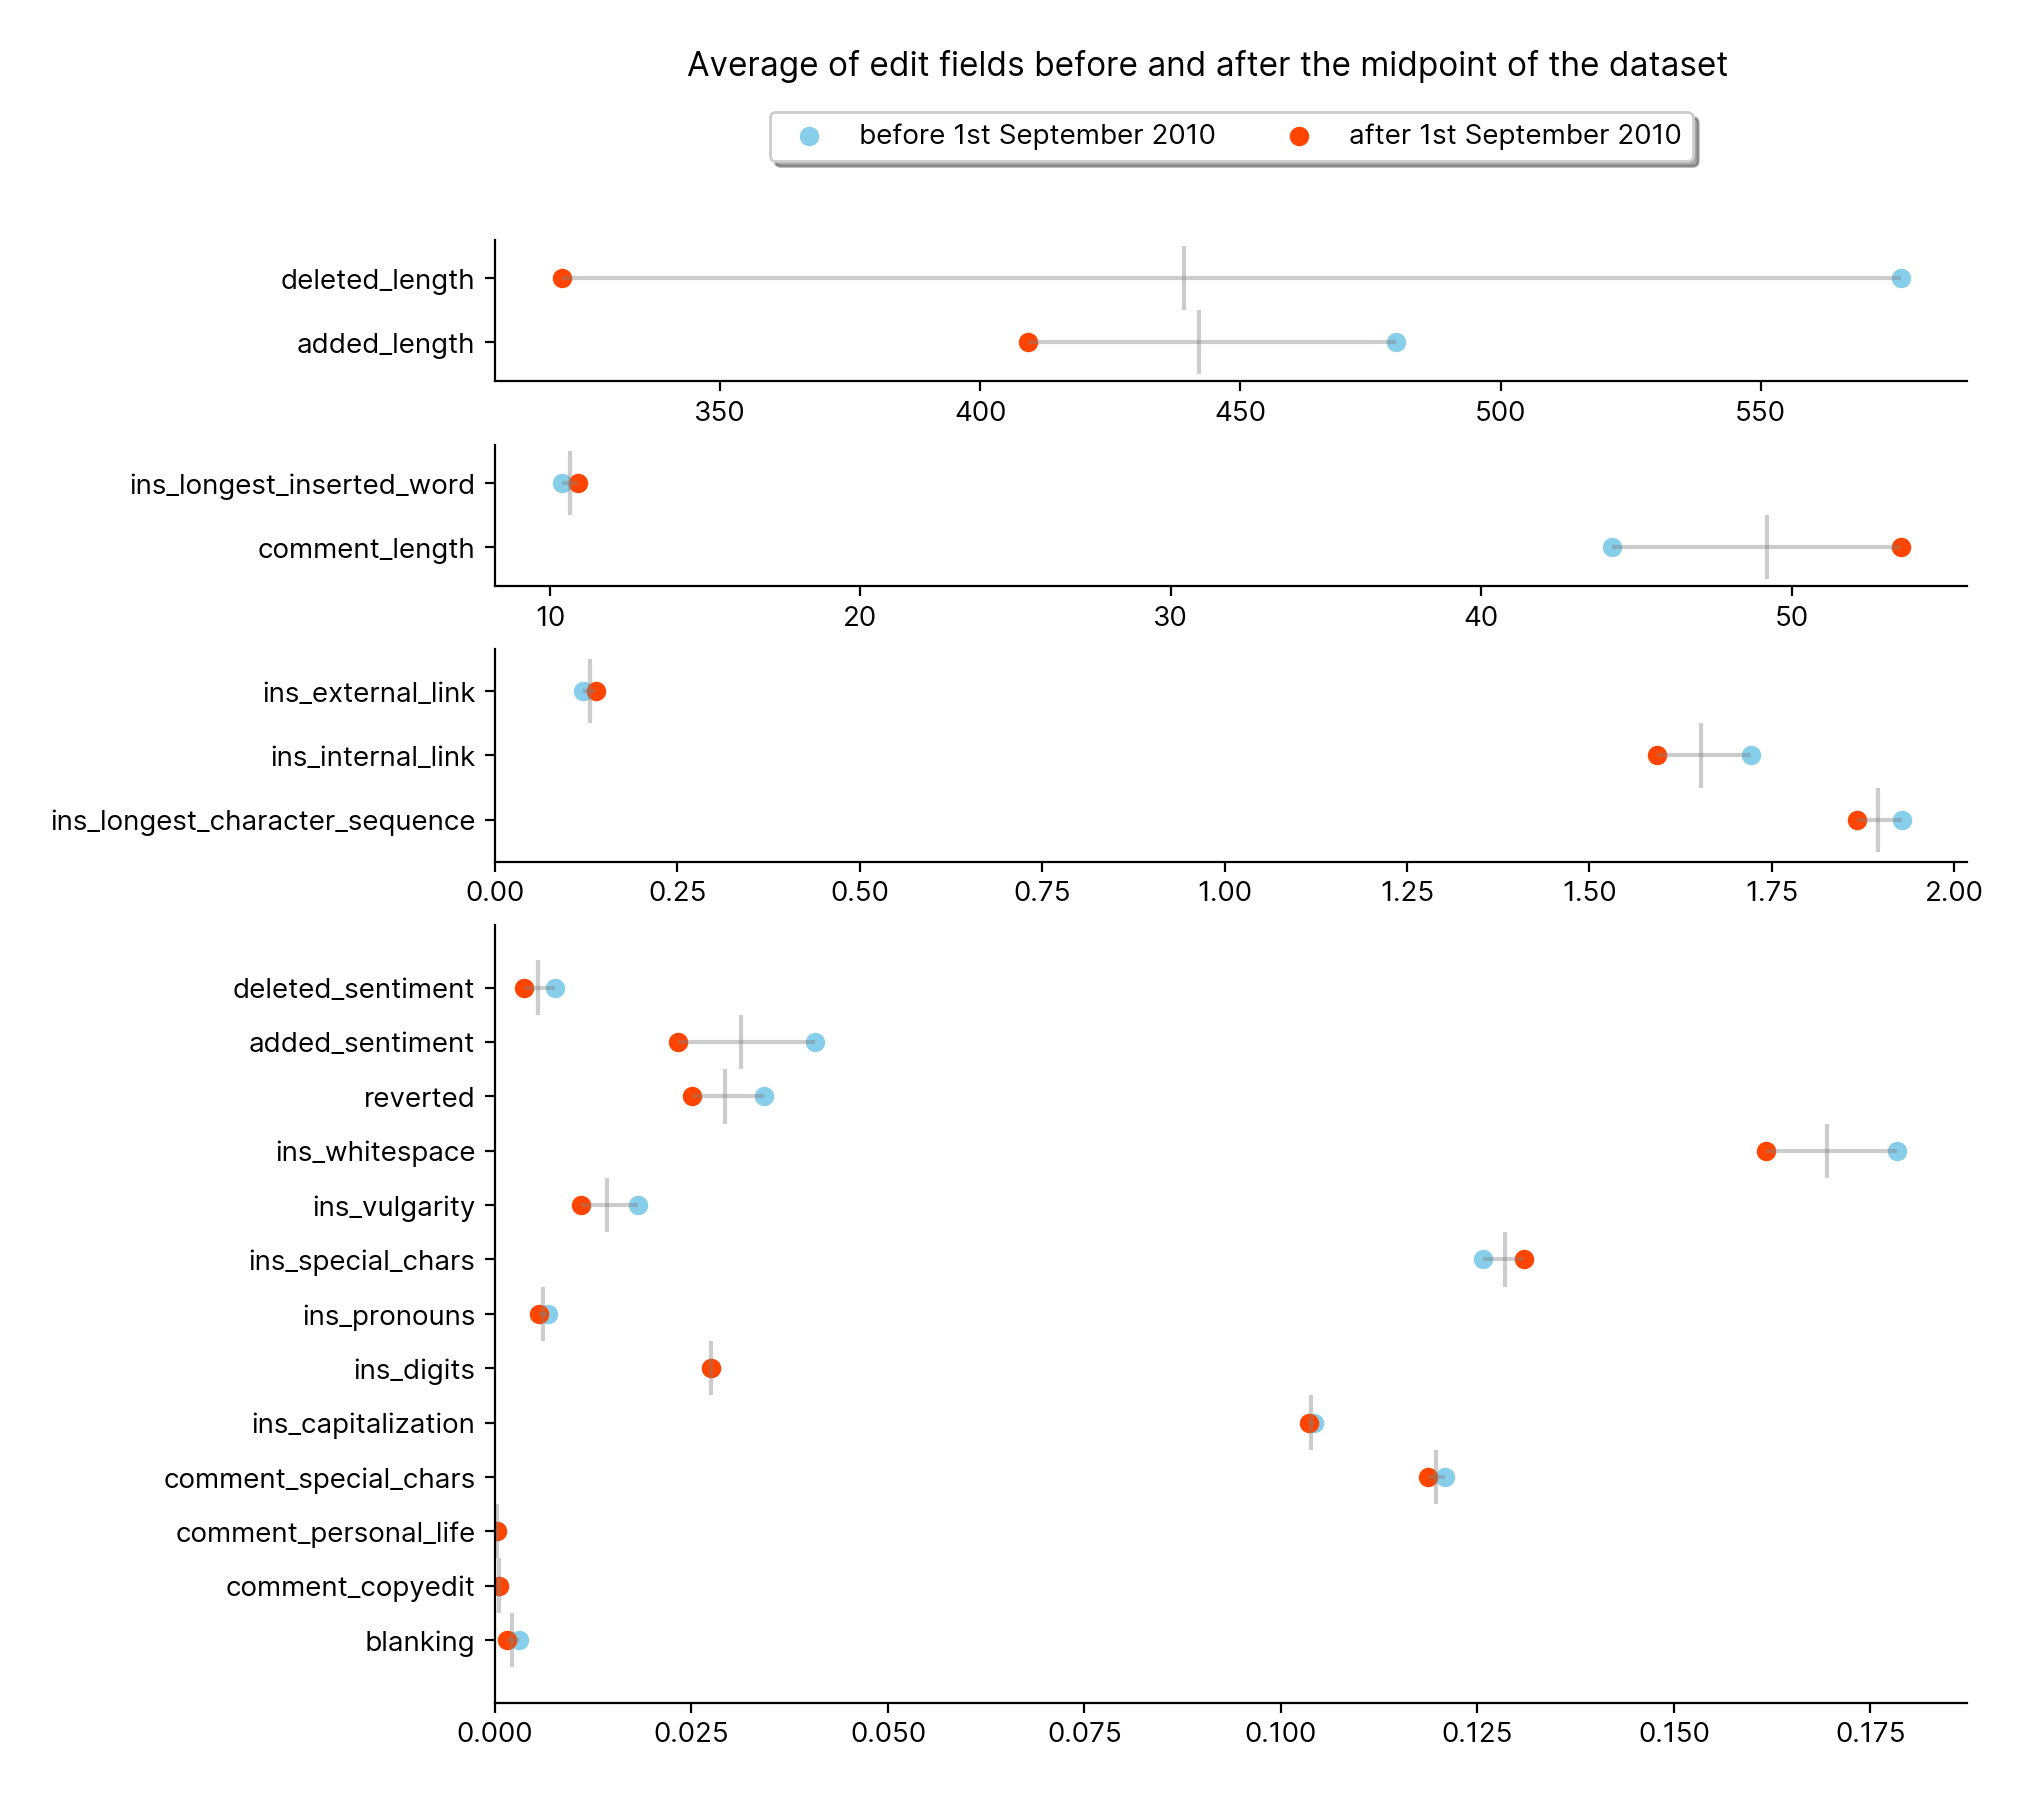
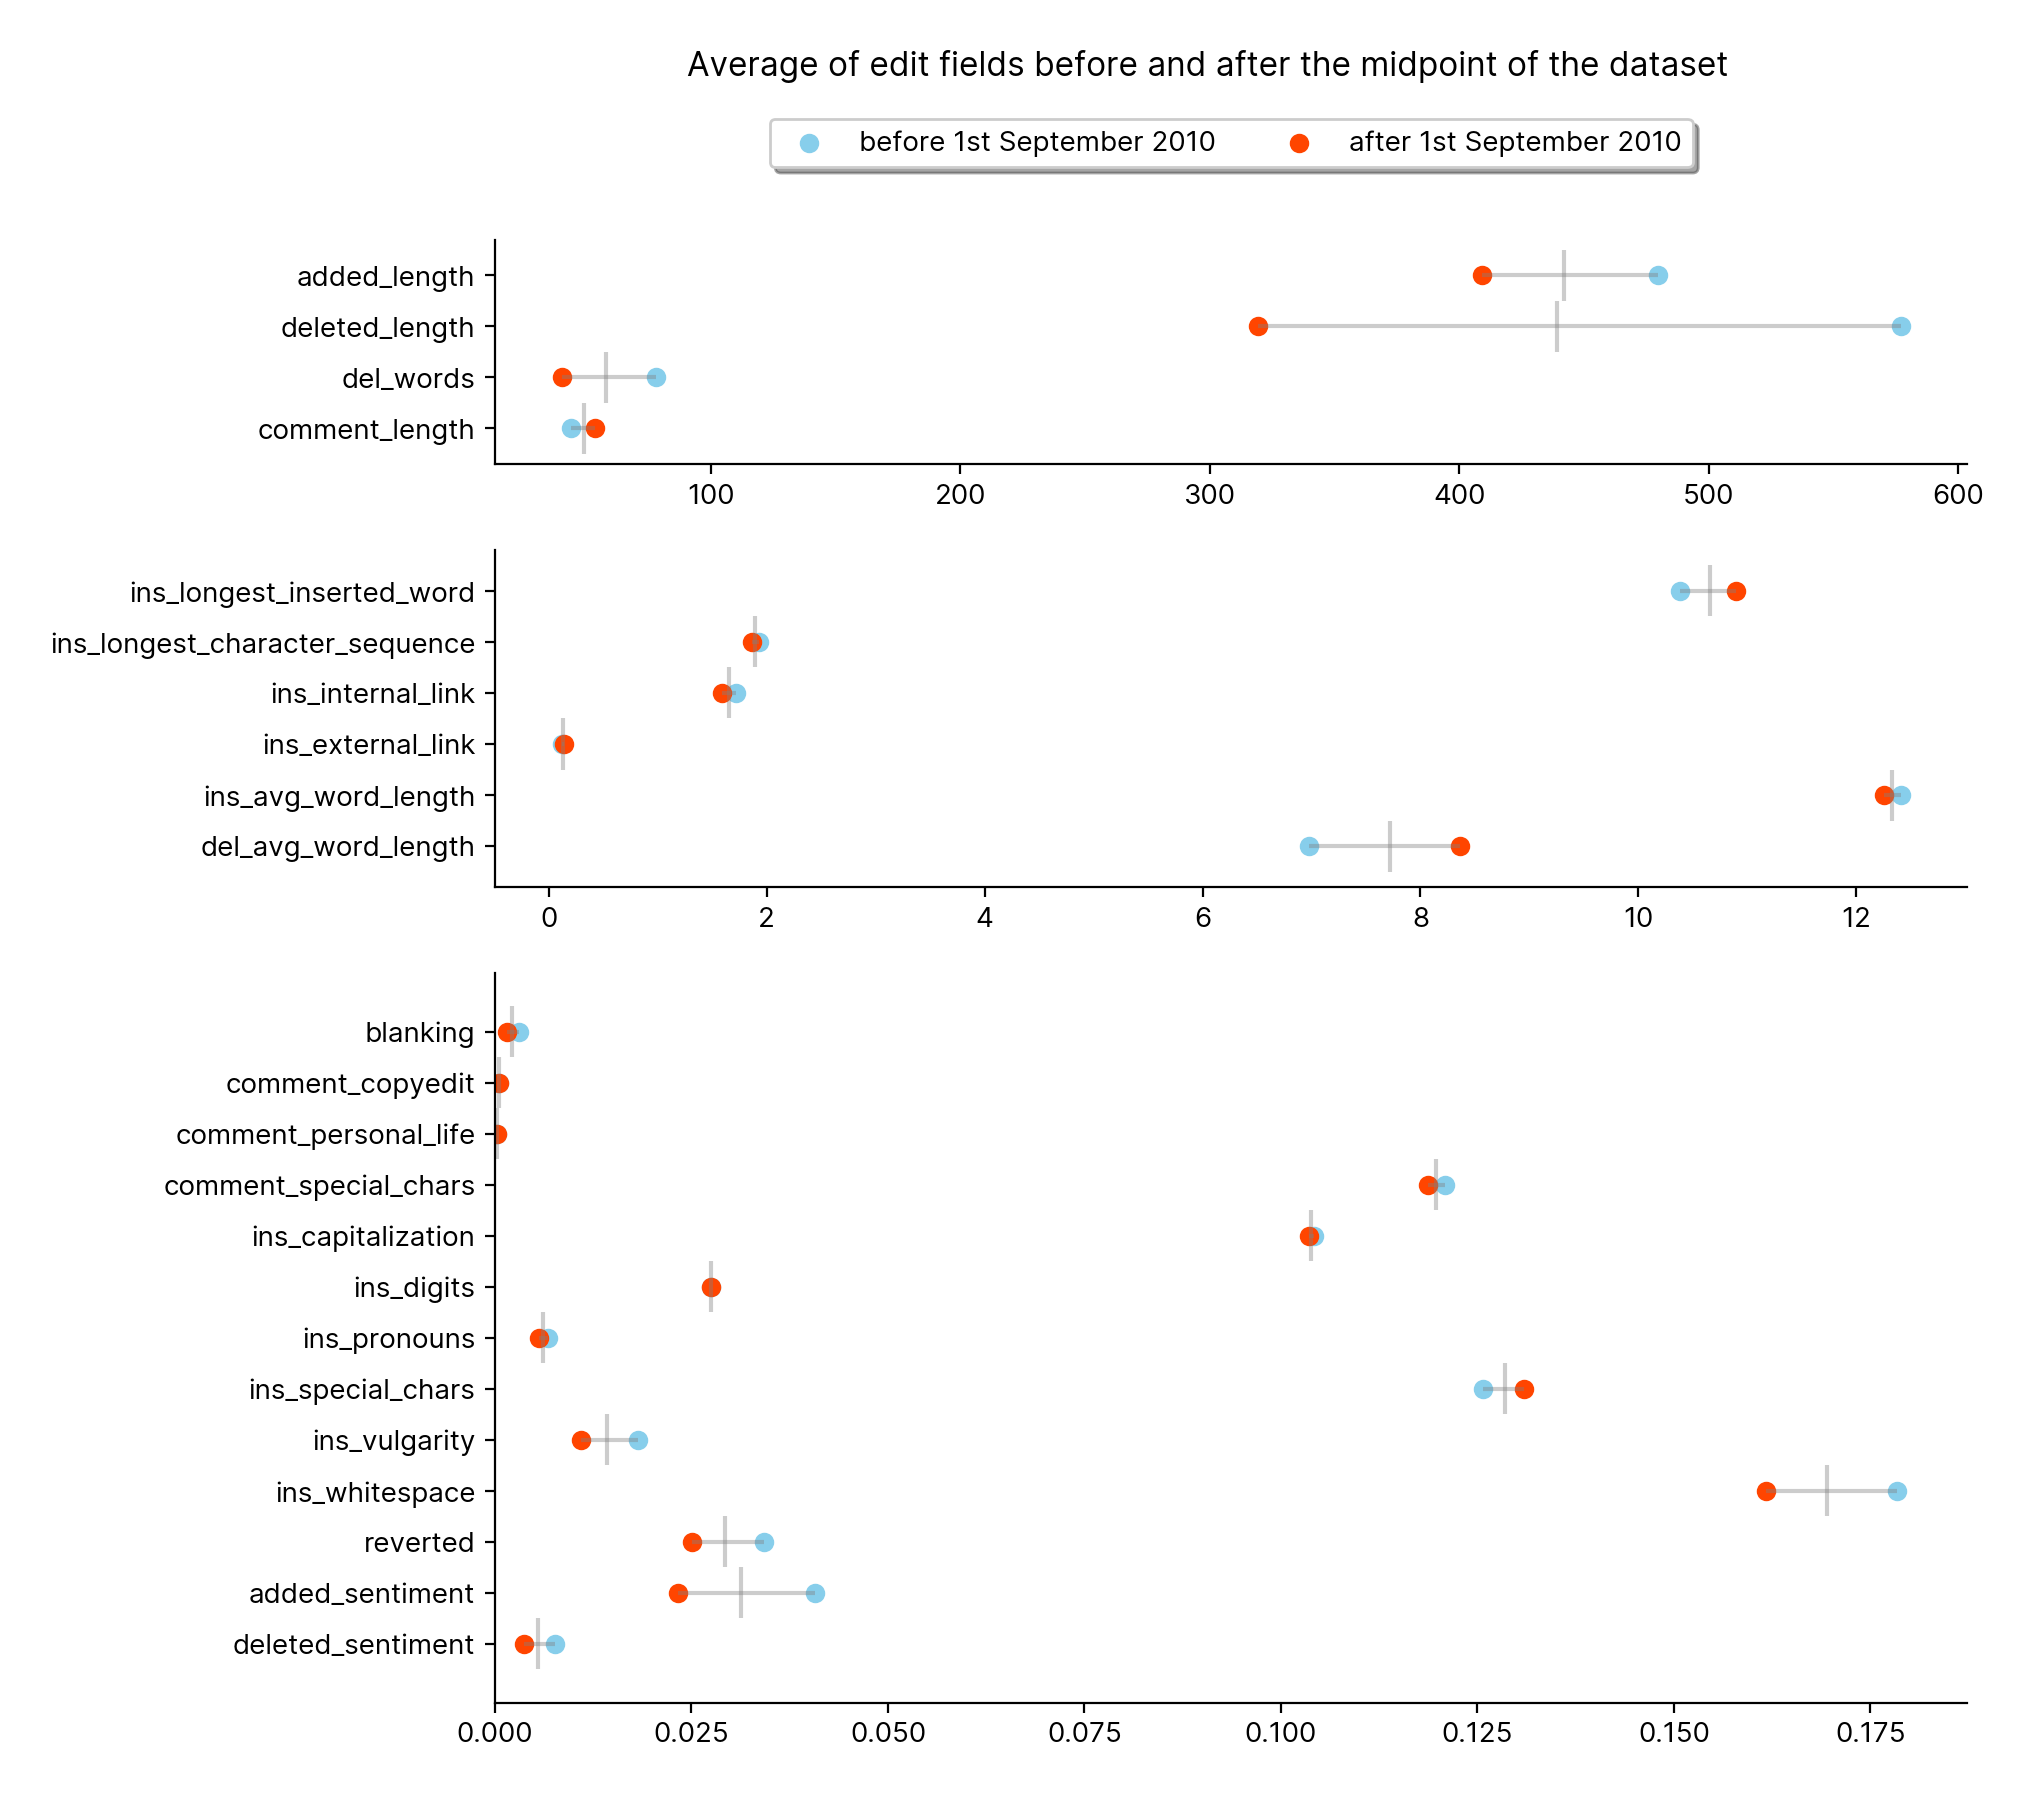
update 26 to have new columns

diff --git a/nsdb/plot.py b/nsdb/plot.py
@@ -1646,7 +1646,7 @@ def averageAllSpecial(cursor, i, plotDir, dataDir, dryrun):
 
         data.append(groupData)
 
-    fig, axs = plt.subplots(3, 1, gridspec_kw={"height_ratios": [4,6, 13]})
+    fig, axs = plt.subplots(3, 1, gridspec_kw={"height_ratios": [4, 6, 13]})
 
     fig.suptitle("Average of all integer edit fields")
 
@@ -1694,7 +1694,7 @@ def averageAllSpecial(cursor, i, plotDir, dataDir, dryrun):
             color="grey",
             alpha=0.4,
         )
-        print(start[j], end[j])
+
         for k, group in enumerate(data):
             if k == 0:
                 continue
@@ -2178,254 +2178,98 @@ def talkpageEditsOverTime(cursor, i, plotDir, dataDir, dryrun):
     plt.close()
 
 
-def averageAllEpoch(cursor, i, plotDir, dataDir, dryrun):
+def averageAllEpoch(cursor, i, plotDir, dataDir, dryrun, columns):
     figname = plotDir + str(i) + "-" + "averageAllEpoch"
     plt.figure()
 
-    columns = [
-        "added_length",
-        "deleted_length",
-        "del_words",
-        "comment_length",
-        "ins_longest_inserted_word",
-        "ins_longest_character_sequence",
-        "ins_internal_link",
-        "ins_external_link",
-        "blanking",
-        "comment_copyedit",
-        "comment_personal_life",
-        "comment_special_chars",
-        "ins_capitalization",
-        "ins_digits",
-        "ins_pronouns",
-        "ins_special_chars",
-        "ins_vulgarity",
-        "ins_whitespace",
-        "reverted",
-        "added_sentiment",
-        "deleted_sentiment",
-    ]
+    groups = ["all", "before", "after"]
+    conditions = ["1", "cast(edit_date as date) < '2010-09-01'", "cast(edit_date as date) >= '2010-09-01'"]
+    
+    data = []
+    
+    for j, condition in enumerate(conditions):
+        query = """select AVG(added_length),AVG(deleted_length),AVG(del_words),AVG(comment_length),
+        AVG(ins_longest_inserted_word),AVG(ins_longest_character_sequence),AVG(ins_internal_link),
+        AVG(ins_external_link),AVG(ins_avg_word_length), AVG(del_avg_word_length),AVG(blanking),AVG(comment_copyedit),AVG(comment_personal_life),
+        AVG(comment_special_chars),AVG(ins_capitalization),AVG(ins_digits),AVG(ins_pronouns),
+        AVG(ins_special_chars),AVG(ins_vulgarity),AVG(ins_whitespace),AVG(reverted),AVG(added_sentiment),
+        AVG(deleted_sentiment)  FROM edit
+        where %s;"""
+        if not dryrun:
+            cursor.execute(query % condition,)
+            condData = cursor.fetchall()
+            condData = list(*condData)
 
-    allEdits = """select AVG(added_length),AVG(deleted_length),AVG(del_words),AVG(comment_length),
-    AVG(ins_longest_inserted_word),AVG(ins_longest_character_sequence),AVG(ins_internal_link),
-    AVG(ins_external_link),AVG(blanking),AVG(comment_copyedit),AVG(comment_personal_life),
-    AVG(comment_special_chars),AVG(ins_capitalization),AVG(ins_digits),AVG(ins_pronouns),
-    AVG(ins_special_chars),AVG(ins_vulgarity),AVG(ins_whitespace),AVG(reverted),AVG(added_sentiment),
-    AVG(deleted_sentiment)  FROM edit;"""
-    if not dryrun:
-        cursor.execute(allEdits,)
-        allData = cursor.fetchall()
-        allData = list(*allData)
-        with open(dataDir + str(i) + "-all.txt", "w") as file:
-            file.write(str(allData))
-    else:
-        allData = [
-            442.0422,
-            439.0867,
-            58.0321,
-            49.1949,
-            10.6587,
-            1.8952,
-            1.6529,
-            0.1304,
-            0.0022,
-            0.0005,
-            0.0002,
-            0.11972271,
-            0.10387291,
-            0.02747601,
-            0.00610185,
-            0.12846018,
-            0.0143,
-            0.16946286,
-            0.0293,
-            0.03135975155021137,
-            0.0055170703440406196,
-        ]
+            writeCSV(dataDir + str(i) + "-" + groups[j] + ".csv", [condData])
+        else:
+            with open(dataDir + str(i) + "-" + groups[j] + ".csv", "r") as file:
+                reader = csv.reader(file, delimiter=",")
+                condData = [list(map(float, line)) for line in reader][0]
 
-    before = """select AVG(added_length),AVG(deleted_length),AVG(del_words),AVG(comment_length),
-    AVG(ins_longest_inserted_word),AVG(ins_longest_character_sequence),AVG(ins_internal_link),
-    AVG(ins_external_link),AVG(blanking),AVG(comment_copyedit),AVG(comment_personal_life),
-    AVG(comment_special_chars),AVG(ins_capitalization),AVG(ins_digits),AVG(ins_pronouns),
-    AVG(ins_special_chars),AVG(ins_vulgarity),AVG(ins_whitespace),AVG(reverted),AVG(added_sentiment),
-    AVG(deleted_sentiment)  FROM edit
-    where cast(edit_date as date) < '2010-09-01';"""
-    if not dryrun:
-        cursor.execute(before,)
-        beforeData = cursor.fetchall()
-        beforeData = list(*beforeData)
-        with open(dataDir + str(i) + "-before.txt", "w") as file:
-            file.write(str(beforeData))
-    else:
-        beforeData = [
-            479.8468,
-            576.8820,
-            78.3332,
-            44.2190,
-            10.3822,
-            1.9279,
-            1.7219,
-            0.1206,
-            0.0031,
-            0.0005,
-            0.0002,
-            0.12086085,
-            0.10419313,
-            0.02750613,
-            0.00671131,
-            0.12564456,
-            0.0182,
-            0.17842393,
-            0.0342,
-            0.0406774523917268,
-            0.0076446326158984374,
-        ]
-
-    after = """select AVG(added_length),AVG(deleted_length),AVG(del_words),AVG(comment_length),
-    AVG(ins_longest_inserted_word),AVG(ins_longest_character_sequence),AVG(ins_internal_link),
-    AVG(ins_external_link),AVG(blanking),AVG(comment_copyedit),AVG(comment_personal_life),
-    AVG(comment_special_chars),AVG(ins_capitalization),AVG(ins_digits),AVG(ins_pronouns),
-    AVG(ins_special_chars),AVG(ins_vulgarity),AVG(ins_whitespace),AVG(reverted),AVG(added_sentiment),
-    AVG(deleted_sentiment)  FROM edit
-    where cast(edit_date as date) >= '2010-09-01';"""
-    if not dryrun:
-        cursor.execute(after,)
-        afterData = cursor.fetchall()
-        afterData = list(*afterData)
-        with open(dataDir + str(i) + "-after.txt", "w") as file:
-            file.write(str(afterData))
-    else:
-        afterData = [
-            409.2529,
-            319.5716,
-            40.4241,
-            53.5107,
-            10.8985,
-            1.8669,
-            1.5930,
-            0.1389,
-            0.0015,
-            0.0005,
-            0.0003,
-            0.11873556,
-            0.10359516,
-            0.02744988,
-            0.00557324,
-            0.13090228,
-            0.0110,
-            0.16169059,
-            0.0251,
-            0.023278155069148418,
-            0.0036717546312976914,
-        ]
-
-    fig, axs = plt.subplots(4, 1, gridspec_kw={"height_ratios": [2, 2, 3, 11]})
+        data.append(condData)
+        
+    fig, axs = plt.subplots(3, 1, gridspec_kw={"height_ratios": [4, 6, 13]})
 
     fig.suptitle("Average of edit fields before and after the midpoint of the dataset")
 
-    start = 0
-    end = 2
-    plotRange = range(start, end)
+    start = [0, 4, 10]
+    end = [4, 10, 23]
 
-    axs[0].hlines(
-        y=plotRange,
-        xmin=[min(a, b) for a, b in zip(beforeData[:end], afterData[:end],)],
-        xmax=[max(a, b) for a, b in zip(beforeData[:end], afterData[:end],)],
-        color="grey",
-        alpha=0.4,
-    )
-    axs[0].vlines(
-        x=allData[:2],
-        ymin=list(map(lambda x: x - 0.5, plotRange)),
-        ymax=list(map(lambda x: x + 0.5, plotRange)),
-        color="grey",
-        alpha=0.4,
-    )
-    axs[0].scatter(
-        beforeData[:2], plotRange, color="skyblue", label="before 1st September 2010"
-    )
-    axs[0].scatter(
-        afterData[:2], plotRange, color="orangered", label="after 1st September 2010"
-    )
-    axs[0].set_yticklabels(columns[:2])
-    axs[0].set_yticks(plotRange)
+    colors = [
+        "skyblue",
+        "orangered",
+    ]
+
+    labels = [
+        "before 1st September 2010",
+        "after 1st September 2010",
+    ]
+
+    for j, ax in enumerate(axs):
+        plotRange = range(start[j], end[j])
+
+        ax.hlines(
+            y=plotRange,
+            xmin=[
+                min(a, b)
+                for a, b in list(zip(*data[1:]))[start[j] : end[j]]
+            ],
+            xmax=[
+                max(a, b)
+                for a, b in list(zip(*data[1:]))[start[j] : end[j]]
+            ],
+            color="grey",
+            alpha=0.4,
+        )
+        ax.vlines(
+            x=data[0][start[j] : end[j]],
+            ymin=list(map(lambda x: x - 0.5, plotRange)),
+            ymax=list(map(lambda x: x + 0.5, plotRange)),
+            color="grey",
+            alpha=0.4,
+        )
+
+        for k, group in enumerate(data):
+            if k == 0:
+                continue
+            ax.scatter(
+                group[start[j] : end[j]],
+                plotRange,
+                color=colors[k - 1],
+                label=labels[k - 1],
+            )
+        ax.set_yticklabels(columns[start[j] : end[j]])
+        ax.set_yticks(plotRange)
+        removeSpines(ax)
+        ax.invert_yaxis()
+        if j > 1:
+            ax.set_xlim(left=0)
+
     axs[0].legend(
-        loc="upper center", bbox_to_anchor=(0.5, 2), ncol=3, fancybox=True, shadow=True,
+        loc="upper center", bbox_to_anchor=(0.5, 1.6), ncol=3, fancybox=True, shadow=True,
     )
-
-    start = 3
-    end = 5
-    plotRange = range(1, end - start + 1)
-    axs[1].hlines(
-        y=plotRange,
-        xmin=[min(a, b) for a, b in zip(beforeData[start:end], afterData[start:end],)],
-        xmax=[max(a, b) for a, b in zip(beforeData[start:end], afterData[start:end],)],
-        color="grey",
-        alpha=0.4,
-    )
-    axs[1].vlines(
-        x=allData[start:end],
-        ymin=list(map(lambda x: x - 0.5, plotRange)),
-        ymax=list(map(lambda x: x + 0.5, plotRange)),
-        color="grey",
-        alpha=0.4,
-    )
-    axs[1].scatter(beforeData[start:end], plotRange, color="skyblue")
-    axs[1].scatter(afterData[start:end], plotRange, color="orangered")
-    axs[1].set_yticklabels(columns[start:end])
-    axs[1].set_yticks(plotRange)
-
-    start = 5
-    end = 8
-    plotRange = range(1, end - start + 1)
-    axs[2].hlines(
-        y=plotRange,
-        xmin=[min(a, b) for a, b in zip(beforeData[start:end], afterData[start:end],)],
-        xmax=[max(a, b) for a, b in zip(beforeData[start:end], afterData[start:end],)],
-        color="grey",
-        alpha=0.4,
-    )
-    axs[2].vlines(
-        x=allData[start:end],
-        ymin=list(map(lambda x: x - 0.5, plotRange)),
-        ymax=list(map(lambda x: x + 0.5, plotRange)),
-        color="grey",
-        alpha=0.4,
-    )
-    axs[2].scatter(beforeData[start:end], plotRange, color="skyblue")
-    axs[2].scatter(afterData[start:end], plotRange, color="orangered")
-    axs[2].set_yticklabels(columns[start:end])
-    axs[2].set_yticks(plotRange)
-    axs[2].set_xlim(left=0)
-
-    start = 8
-    end = 21
-    plotRange = range(1, end - start + 1)
-    axs[3].hlines(
-        y=plotRange,
-        xmin=[min(a, b) for a, b in zip(beforeData[start:end], afterData[start:end],)],
-        xmax=[max(a, b) for a, b in zip(beforeData[start:end], afterData[start:end],)],
-        color="grey",
-        alpha=0.4,
-    )
-    axs[3].vlines(
-        x=allData[start:],
-        ymin=list(map(lambda x: x - 0.5, plotRange)),
-        ymax=list(map(lambda x: x + 0.5, plotRange)),
-        color="grey",
-        alpha=0.4,
-    )
-    axs[3].scatter(beforeData[start:], plotRange, color="skyblue")
-    axs[3].scatter(afterData[start:], plotRange, color="orangered")
-    axs[3].set_yticklabels(columns[start:])
-    axs[3].set_yticks(plotRange)
-    axs[3].set_xlim(left=0)
 
     plt.gcf().set_size_inches(9.5, 9.5)
-    removeSpines(axs[0])
-    removeSpines(axs[1])
-    removeSpines(axs[2])
-    removeSpines(axs[3])
 
     plt.savefig(figname, bbox_inches="tight", pad_inches=0.25, dpi=200)
     plt.close()
